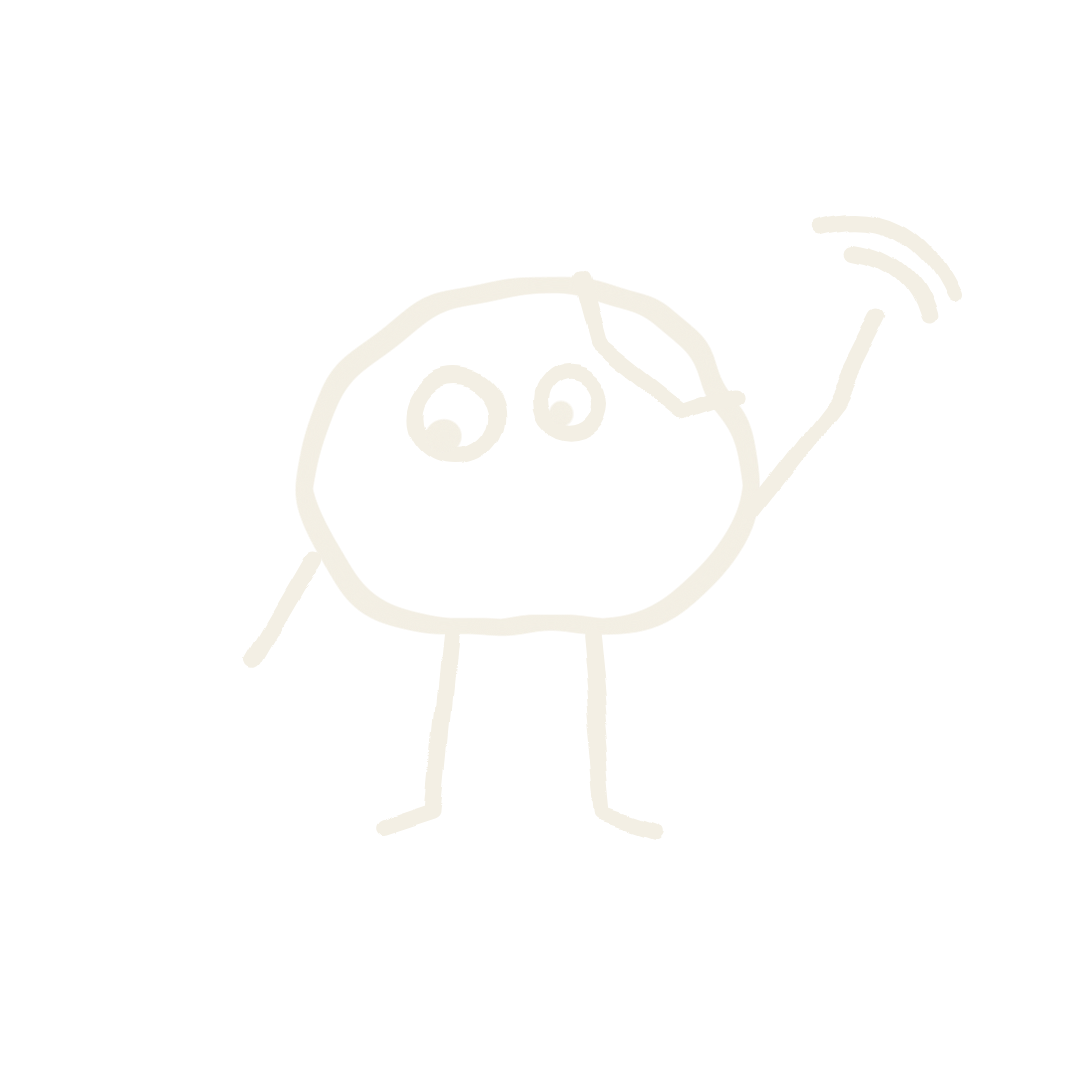
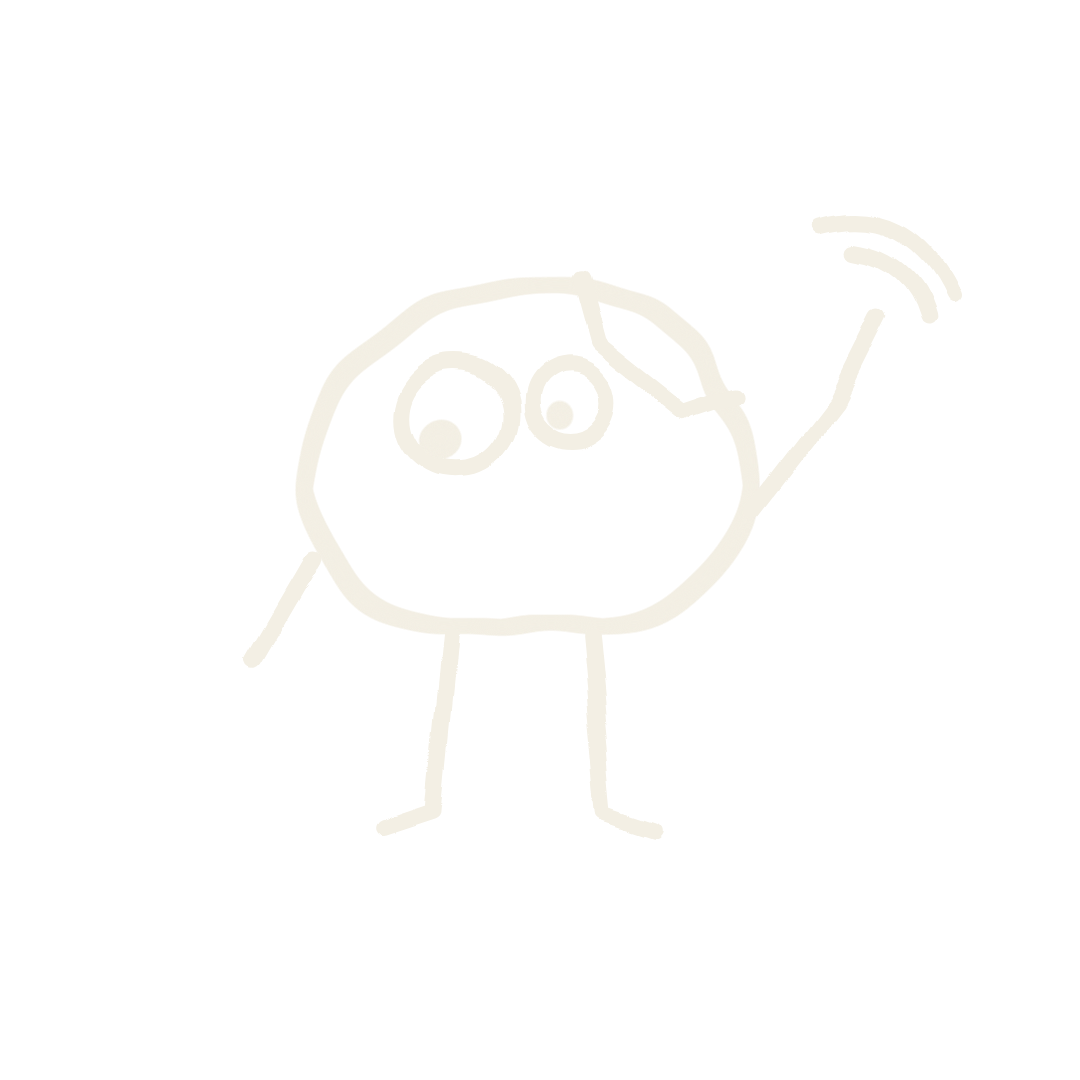
Bruta: ojos grandes con pupila caída, como en la versión original
Claude-Session: https://claude.ai/code/session_01EM6TpMU7t67S14XcMdvHnA

Changed region(s): [[0.3667, 0.3056, 0.5806, 0.4583]]

diff --git a/identidad/identidad-rupestre.html b/identidad/identidad-rupestre.html
@@ -392,15 +392,15 @@ footer { padding-block: 32px 48px; border-top: 1px solid var(--linea); color: va
   const rockAt = (tx, ty, sc) => `<path transform="translate(${tx} ${ty}) scale(${sc})" d="${ROCK}"/>`;
   function rockParts(tx, ty, sc, eyes) {
     const P = (x, y) => [x * sc + tx, y * sc + ty];
-    const [lx, ly] = P(160, 132), [rx, ry] = P(236, 126), rL = 33 * sc, rR = 26 * sc;
+    const [lx, ly] = P(160, 132), [rx, ry] = P(236, 126), rL = 36 * sc, rR = 27 * sc;
     const cut = [P(246, 40), P(258, 84), P(316, 130), P(352, 118)].map((q, i) => (i ? "L" : "M") + q[0].toFixed(1) + " " + q[1].toFixed(1)).join(" ");
     const arc = (x, y, r) => `<path d="M${x - r} ${y - r * .1} Q${x} ${y + r * .8} ${x + r} ${y - r * .1}" stroke-width="${Math.max(4, r * .45)}"/>`;
     const pupil = (x, y, r, dx, dy, k = .47) => `<circle cx="${x + r * dx}" cy="${y + r * dy}" r="${r * k}"/>`;
     let holes = "", over = "", eyeLines = "", eyeRing = "";
-    const ring = (x, y, r) => `<circle cx="${x}" cy="${y}" r="${r * .82}"/>`;
+    const ring = (x, y, r) => `<circle cx="${x}" cy="${y}" r="${r}"/>`;
     if (eyes === "open" || eyes === "up" || eyes === "wide") {
       holes = `<circle cx="${lx}" cy="${ly}" r="${rL}"/><circle cx="${rx}" cy="${ry}" r="${rR}"/>`;
-      const [dx, dy, k] = eyes === "up" ? [.15, -.42, .47] : eyes === "wide" ? [0, .02, .42] : [-.25, .4, .47];
+      const [dx, dy, k] = eyes === "up" ? [.15, -.45, .47] : eyes === "wide" ? [0, .02, .42] : [-.28, .42, .47];
       over = pupil(lx, ly, rL, dx, dy, k) + pupil(rx, ry, rR, dx, dy, k);
       eyeRing = ring(lx, ly, rL) + ring(rx, ry, rR);
     } else if (eyes === "wink") {

diff --git a/marca.js b/marca.js
@@ -47,15 +47,15 @@
   const rockAt = (tx, ty, sc) => `<path transform="translate(${tx} ${ty}) scale(${sc})" d="${ROCK}"/>`;
   function rockParts(tx, ty, sc, eyes) {
     const P = (x, y) => [x * sc + tx, y * sc + ty];
-    const [lx, ly] = P(160, 132), [rx, ry] = P(236, 126), rL = 33 * sc, rR = 26 * sc;
+    const [lx, ly] = P(160, 132), [rx, ry] = P(236, 126), rL = 36 * sc, rR = 27 * sc;
     const cut = [P(246, 40), P(258, 84), P(316, 130), P(352, 118)].map((q, i) => (i ? "L" : "M") + q[0].toFixed(1) + " " + q[1].toFixed(1)).join(" ");
     const arc = (x, y, r) => `<path d="M${x - r} ${y - r * .1} Q${x} ${y + r * .8} ${x + r} ${y - r * .1}" stroke-width="${Math.max(4, r * .45)}"/>`;
     const pupil = (x, y, r, dx, dy, k = .47) => `<circle cx="${x + r * dx}" cy="${y + r * dy}" r="${r * k}"/>`;
     let holes = "", over = "", eyeLines = "", eyeRing = "";
-    const ring = (x, y, r) => `<circle cx="${x}" cy="${y}" r="${r * .82}"/>`;
+    const ring = (x, y, r) => `<circle cx="${x}" cy="${y}" r="${r}"/>`;
     if (eyes === "open" || eyes === "up" || eyes === "wide") {
       holes = `<circle cx="${lx}" cy="${ly}" r="${rL}"/><circle cx="${rx}" cy="${ry}" r="${rR}"/>`;
-      const [dx, dy, k] = eyes === "up" ? [.15, -.42, .47] : eyes === "wide" ? [0, .02, .42] : [-.25, .4, .47];
+      const [dx, dy, k] = eyes === "up" ? [.15, -.45, .47] : eyes === "wide" ? [0, .02, .42] : [-.28, .42, .47];
       over = pupil(lx, ly, rL, dx, dy, k) + pupil(rx, ry, rR, dx, dy, k);
       eyeRing = ring(lx, ly, rL) + ring(rx, ry, rR);
     } else if (eyes === "wink") {
